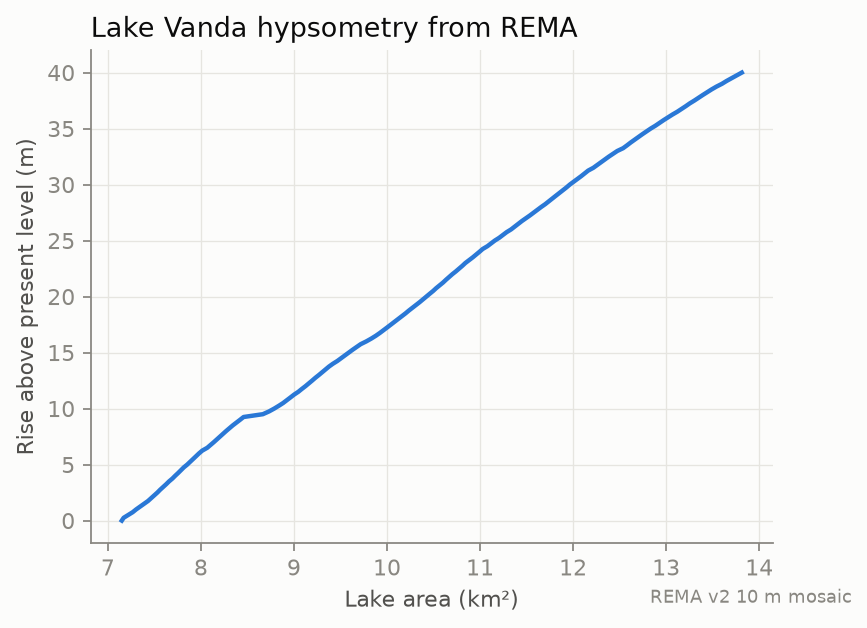
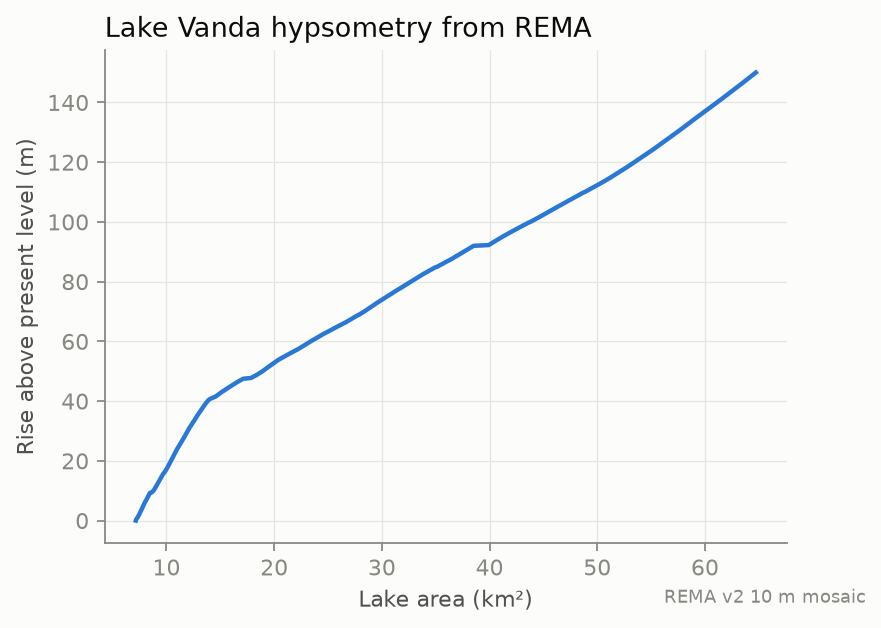
Run on real LTER and RACMO data; add control run and NetCDF reader
- Read yearly CESM2-driven RACMO2.3p2 NetCDF (Zenodo 6416973); changes
  relative to 1994-2025, 21-yr smoothing, optional summer_scaling
- Widen the DEM window to 20 km and hypsometry to +150 m (area was
  clamped beyond +40 m)
- Add a no-further-warming control scenario and an optional log-inflow GP
- Fix two-digit years in the Onyx River daily export
- README: first real-data results and caveats; data docs list exact
  package IDs and file names

diff --git a/src/vanda_rising/cli.py b/src/vanda_rising/cli.py
@@ -61,6 +61,21 @@ def load_real_inputs(cfg) -> Inputs:
         ice = lter.load_ice_thickness(p, L["lake_filter"])
     lon, lat = cfg["lake"]["lon"], cfg["lake"]["lat"]
     R = cfg["racmo"]
+    if R.get("format") == "netcdf":
+        from .racmo_nc import change_table
+        kw = dict(grid=resolve(cfg, R["grid"]), lon=lon, lat=lat, n_cells=R.get("n_cells", 4),
+                  smooth_yr=R.get("smooth_yr", 21), baseline=tuple(R.get("baseline", (1995, 2014))))
+        tch = change_table({k: resolve(cfg, v) for k, v in R["t2m"].items()}, "t2m", mode="delta", **kw)
+        # Yearly files give annual-mean warming; summer warming can be smaller (Antarctic
+        # warming is winter-amplified). summer_scaling converts one to the other.
+        tch["change"] *= float(R.get("summer_scaling", 1.0))
+        sch = None
+        if R.get("sublimation"):
+            sch = change_table({k: resolve(cfg, v) for k, v in R["sublimation"].items()}, "subl", mode="ratio", **kw)
+        offset = 0.0
+        if L.get("rema_epoch"):
+            offset = float(levels.iloc[-1] - lter.level_at(levels, L["rema_epoch"]))
+        return Inputs(read_dem(dem_path), levels, met, tch, sch, inflow, ice, offset)
     tch = racmo_change(resolve(cfg, R["t2m_hist"]), {s: {k: resolve(cfg, v) for k, v in d.items()}
                                                       for s, d in R["t2m_future"].items()}, lon, lat, "delta")
     sch = None
@@ -98,6 +113,12 @@ def analyse(inp: Inputs, cfg, out: Path, figs: Path, tag: str | None = None) -> 
     years = range(M["start_year"], M["end_year"] + 1)
     delta_ts = change_timeseries(inp.t_change, years, "delta")
     sub_ts = change_timeseries(inp.s_change, years, "ratio") if inp.s_change is not None else None
+    # Control run: today's climate held fixed. It isolates the lake's committed rise from the
+    # effect of warming, and needs no extrapolation beyond the observed summers.
+    if M.get("control_run", True):
+        delta_ts.insert(0, "no_warming", 0.0)
+        if sub_ts is not None:
+            sub_ts.insert(0, "no_warming", 1.0)
     pd.concat({"delta_t2m_c": delta_ts, **({"sublimation_ratio": sub_ts} if sub_ts is not None else {})}, axis=1).to_csv(out / "forcing_timeseries.csv")
 
     # ---- engine 1: statistical
@@ -117,19 +138,27 @@ def analyse(inp: Inputs, cfg, out: Path, figs: Path, tag: str | None = None) -> 
 
     # ---- engine 2: water balance
     if inp.inflow is not None:
-        dq = build_dataset(inp.inflow, feats)
+        # Seasonal inflow is heavy-tailed (one flood summer can carry 10x the median), so the
+        # GP learns ln(volume) by default: errors become multiplicative, as in the observations.
+        log_q = bool(M.get("log_inflow", True))
+        target = np.log(inp.inflow.clip(lower=1.0)) if log_q else inp.inflow
+        dq = build_dataset(target, feats)
         m_q, p_q = cross_validate(dq, features, "inflow_m3", M["seed"])
         m_q.to_csv(out / "cv_inflow.csv"); p_q.to_csv(out / "cv_inflow_predictions.csv")
         q_model = fit(dq, features, "inflow_m3", M["seed"])
         loss_mean, loss_sd, loss_tab = calibrate_loss(dlevel, inp.inflow, area0)
         loss_tab.to_csv(out / "water_balance_calibration.csv")
         wb_proj, eq, _ = project_waterbalance(q_model, forcings, delta_ts, sub_ts, curve, loss_mean, loss_sd,
-                                              len(loss_tab), M["n_sims"], M["seed"])
+                                              len(loss_tab), M["n_sims"], M["seed"], log_inflow=log_q)
         eq["e_folding_time_yr"] = [e_folding_time(curve, q, l) for q, l in zip(eq["mean_inflow_m3"], eq["loss_m_yr"])]
         wb_proj.to_csv(out / "projection_waterbalance.csv", index=False)
         eq.to_csv(out / "equilibrium.csv", index=False)
-        plots.plot_cv(p_q / 1e6, (m_q / 1e6).assign(coverage_90=m_q["coverage_90"]), figs / "cv_inflow.png",
-                      "10⁶ m³", "Onyx River seasonal inflow: GP cross-validation", tag)
+        if log_q:
+            plots.plot_cv(p_q, m_q, figs / "cv_inflow.png", "ln m³",
+                          "Onyx River seasonal inflow (log): GP cross-validation", tag)
+        else:
+            plots.plot_cv(p_q / 1e6, (m_q / 1e6).assign(coverage_90=m_q["coverage_90"]), figs / "cv_inflow.png",
+                          "10⁶ m³", "Onyx River seasonal inflow: GP cross-validation", tag)
         summary["water_balance"] = {"loss_m_yr": loss_mean, "loss_sd_m_yr": loss_sd, "n_seasons": len(loss_tab),
                                     "equilibrium": eq.round(3).to_dict(orient="records")}
         panels["Water-balance engine (inflow − ice ablation)"] = wb_proj

diff --git a/src/vanda_rising/racmo_nc.py b/src/vanda_rising/racmo_nc.py
@@ -1,0 +1,82 @@
+"""Yearly RACMO2.3p2 (CESM2-forced) NetCDF files -> scenario change series at the lake.
+
+Source: van Wessem et al., Zenodo doi:10.5281/zenodo.6416973 (files such as
+``t2m_yearlyA_ANT27_CESM2_RACMO2.3p2_SSP245_r567_2011_2099.nc``). The historical run and the
+SSP runs come from the same model chain, so the model's own bias cancels in the change.
+
+Method:
+
+* the series at the lake is an inverse-distance mean of the ``n_cells`` nearest 27 km cells
+  (the nearest sits about 5 km away but ~900 m higher, so only *changes* are used);
+* historical (to 2014) and SSP (from 2015) years are joined and smoothed with a centred
+  ``smooth_yr`` running mean, so the forcing carries the forced trend rather than CESM2's own
+  year-to-year noise (interannual variability comes from the observed seasons instead);
+* change is relative to the ``baseline`` years: additive for temperature, a ratio for
+  sublimation.
+
+The output matches ``scenarios.racmo_change`` (columns scenario, mid_year, change), so
+``scenarios.change_timeseries`` works on it unchanged.
+"""
+from __future__ import annotations
+
+from pathlib import Path
+
+import numpy as np
+import pandas as pd
+
+BASELINE = (1994, 2025)   # the Lake Vanda station record; hist run to 2014, then each SSP
+HIST_END = 2014
+
+
+def _nearest_cells(grid: Path, lon: float, lat: float, n: int):
+    import netCDF4
+    with netCDF4.Dataset(grid) as g:
+        glat, glon = np.asarray(g["lat"][:]), np.asarray(g["lon"][:])
+    dx = (glon - lon) * np.cos(np.radians(lat)) * 111.2
+    dy = (glat - lat) * 111.2
+    d = np.hypot(dx, dy)
+    flat = np.argsort(d, axis=None)[:n]
+    rc = [np.unravel_index(i, d.shape) for i in flat]
+    dist = np.array([d[r, c] for r, c in rc])
+    w = 1.0 / np.maximum(dist, 1.0) ** 2
+    return rc, w / w.sum(), dist
+
+
+def point_series(path: Path, var: str, cells, weights) -> pd.Series:
+    """Yearly series (index = calendar year) at the lake from one RACMO yearly file."""
+    import netCDF4
+    with netCDF4.Dataset(path) as ds:
+        x = np.asarray(ds[var][:], dtype=float)
+        t = ds["time"]
+        dates = netCDF4.num2date(t[:], t.units, getattr(t, "calendar", "standard"))
+    x = x.reshape(x.shape[0], -1, *x.shape[-2:])[:, 0]          # drop the singleton height axis
+    vals = sum(w * x[:, r, c] for (r, c), w in zip(cells, weights))
+    return pd.Series(vals, index=[d.year for d in dates], name=var).groupby(level=0).mean()
+
+
+def change_table(files: dict[str, Path], var: str, grid: Path, lon: float, lat: float,
+                 mode: str = "delta", n_cells: int = 4, smooth_yr: int = 21,
+                 baseline: tuple[int, int] = BASELINE) -> pd.DataFrame:
+    """``files`` maps 'hist' and each scenario name to a NetCDF path."""
+    cells, w, dist = _nearest_cells(grid, lon, lat, n_cells)
+    hist = point_series(files["hist"], var, cells, w)
+    hist = hist[hist.index <= HIST_END]
+    neutral = 0.0 if mode == "delta" else 1.0
+    base_mid = (baseline[0] + baseline[1]) / 2
+    rows = []
+    for scen, p in files.items():
+        if scen == "hist":
+            continue
+        fut = point_series(p, var, cells, w)
+        s = pd.concat([hist, fut[fut.index > HIST_END]]).sort_index()
+        # Baseline = the years the station record covers, so the observed summers are the
+        # zero-change climate. It can run past 2014, so it is taken per scenario.
+        base = float(s.loc[baseline[0]:baseline[1]].mean())
+        s = s.rolling(smooth_yr, center=True, min_periods=smooth_yr // 2 + 1).mean()
+        ch = s - base if mode == "delta" else s / base
+        rows.append({"scenario": scen, "mid_year": base_mid, "change": neutral, "value": base, "baseline": base})
+        rows += [{"scenario": scen, "mid_year": float(yr), "change": float(c), "value": float(s[yr]), "baseline": base}
+                 for yr, c in ch.items() if yr > base_mid]
+    out = pd.DataFrame(rows)
+    out.attrs.update(cell_distance_km=[round(float(v), 1) for v in dist], baseline=baseline, smooth_yr=smooth_yr)
+    return out

diff --git a/src/vanda_rising/waterbalance.py b/src/vanda_rising/waterbalance.py
@@ -55,7 +55,9 @@ def equilibrium_rise(curve: pd.DataFrame, q_mean_m3: float, loss_m: float) -> fl
 
 def project_waterbalance(inflow_model: LevelModel, forcings: list[SeasonForcing], delta_ts: pd.DataFrame,
                          sub_ratio_ts: pd.DataFrame | None, curve: pd.DataFrame, loss_mean: float,
-                         loss_sd: float, n_seasons_calib: int, n_sims: int = 2000, seed: int = 42):
+                         loss_sd: float, n_seasons_calib: int, n_sims: int = 2000, seed: int = 42,
+                         log_inflow: bool = False):
+    """``log_inflow``: the inflow model predicts ln(volume), so samples are exp(normal)."""
     rng = np.random.default_rng(seed)
     years = delta_ts.index.to_numpy()
     max_rise = float(curve["rise_m"].max())
@@ -71,13 +73,18 @@ def project_waterbalance(inflow_model: LevelModel, forcings: list[SeasonForcing]
         for j, yr in enumerate(years):
             mu, sd, out = predict_cached(inflow_model, forcings, cache, delta_ts.loc[yr, scen])
             pick = rng.integers(len(forcings), size=n_sims)
-            q = np.clip(rng.normal(mu[pick], sd[pick]), 0, None)
+            if log_inflow:
+                q = np.exp(rng.normal(mu[pick], sd[pick]))
+                q_mean = float(np.exp(mu + sd ** 2 / 2).mean())
+            else:
+                q = np.clip(rng.normal(mu[pick], sd[pick]), 0, None)
+                q_mean = float(mu.mean())
             ratio = 1.0 if sub_ratio_ts is None else float(sub_ratio_ts.loc[yr, scen])
             loss = np.clip(l_sim * ratio + rng.normal(0, loss_sd, n_sims), 0, None)
             a = area_m2(curve, np.clip(rise, 0, max_rise))
             rise = rise + (q - loss * a) / a
             cum[:, j] = rise
-            q_year_mean[j] = mu.mean()
+            q_year_mean[j] = q_mean
             extrap[j] = out[pick].mean()
         rows += _quantile_rows(scen, years, cum, {"delta_t": delta_ts[scen].to_numpy(),
                                                   "mean_inflow_m3": q_year_mean,

diff --git a/src/vanda_rising/lter.py b/src/vanda_rising/lter.py
@@ -34,6 +34,18 @@ def find_col(df: pd.DataFrame, *keys: str, exclude: tuple[str, ...] = (), requir
     return None
 
 
+def parse_dates(values) -> pd.DatetimeIndex:
+    """Parse dates, fixing two-digit years that land in the future (e.g. '12/5/69' -> 2069).
+
+    The Onyx River daily export writes dates as m/d/yy and starts in 1969.
+    """
+    idx = pd.DatetimeIndex(pd.to_datetime(values, errors="coerce"))
+    future = idx > pd.Timestamp.now() + pd.Timedelta(days=366)
+    if future.any():
+        idx = idx.where(~future, idx - pd.DateOffset(years=100))
+    return pd.DatetimeIndex(idx)
+
+
 def season_of(index) -> np.ndarray:
     idx = pd.DatetimeIndex(index)
     return np.where(idx.month >= 7, idx.year, idx.year - 1)
@@ -81,10 +93,10 @@ _Q_TO_M3S = {"l/s": 1e-3, "m3/s": 1.0, "cfs": 0.0283168}
 def load_discharge(path, date: str | None = None, q: str | None = None, units: str = "l/s") -> pd.Series:
     """Discharge series in m^3/s. MCM LTER stream gauges report L/s; set ``units`` otherwise."""
     df = pd.read_csv(path, low_memory=False)
-    q = q or find_col(df, "discharge_rate", "discharge", "dsch", "flow")
+    q = q or find_col(df, "discharge_rate", "avg_discharge", "discharge", "dsch", "flow")
     date = date or find_col(df, "date_time", "datetime", "timestamp", "date", "time", exclude=(q,))
     s = pd.Series(pd.to_numeric(df[q], errors="coerce").to_numpy() * _Q_TO_M3S[units.lower()],
-                  index=pd.to_datetime(df[date], errors="coerce"), name="q_m3s")
+                  index=parse_dates(df[date]), name="q_m3s")
     s = s[s.index.notna()].sort_index()
     return s[~s.index.duplicated()].clip(lower=0)
 

diff --git a/src/vanda_rising/plots.py b/src/vanda_rising/plots.py
@@ -12,7 +12,7 @@ import pandas as pd  # noqa: E402
 
 # Categorical slots in fixed order (validated reference palette); ink tokens for text.
 SCENARIO_COLORS = {"ssp126": "#2a78d6", "ssp245": "#eb6834", "ssp585": "#1baf7a"}
-SCENARIO_LABELS = {"ssp126": "SSP1-2.6", "ssp245": "SSP2-4.5", "ssp585": "SSP5-8.5"}
+SCENARIO_LABELS = {"no_warming": "No further warming", "ssp126": "SSP1-2.6", "ssp245": "SSP2-4.5", "ssp585": "SSP5-8.5"}
 INK, INK2, MUTED, SURFACE, GRID = "#0b0b0b", "#52514e", "#898781", "#fcfcfb", "#e6e5e0"
 
 plt.rcParams.update({

diff --git a/README.md b/README.md
@@ -48,11 +48,70 @@ flowchart LR
 
 | Piece | State |
 |---|---|
-| REMA fetch, lake detection, hypsometry | **Working on real data** (figures below) |
-| Water-balance, lake-ice and statistical engines | Working; tested on synthetic data with known parameters |
-| LTER lake levels, Onyx discharge, met, ice thickness | **You download these** (EDI has a login and bot check, so scripted downloads aren't possible) |
-| RACMO layers | **You download these** from the Quantarctica package |
+| REMA fetch, lake detection, hypsometry to +150 m | **Working on real data** |
+| Water balance, lake ice, statistical engines | **Run on real data**: LTER packages knb-lter-mcm.68.15, 7015.22, 9122.7 and 67.19 |
+| Climate forcing | **Real**: RACMO2.3p2 driven by CESM2, historical and SSP1-2.6, 2-4.5, 5-8.5 (yearly) |
+| Flood intersection with ASMA and historic sites | Waiting on the Quantarctica vector layers |
 | Allan Hills DTS check | Reader written; data download sits behind a reCAPTCHA |
+
+## Results (real data, first pass)
+
+![Projections](figures/projections.png)
+
+**1. The water balance closes.** Across seasons, Onyx River inflow and Lake Vanda's level
+change correlate at r = 0.99. Calibrating against 36 seasons gives a net loss through the ice
+cover of **0.215 ± 0.176 m/yr**. The independent lake-ice model implies 0.32 m/yr of water
+lost through ablation, so the two estimates agree to within a factor of 1.5 (closure ratio
+0.67).
+
+**2. Lake Vanda is committed to rising even without further warming.** At today's climate,
+mean inflow (3.5 × 10⁶ m³/yr) only balances ice-cover loss once the lake covers about
+16 km². That happens **≈ 45 m above today's level**, with an e-folding time of
+**≈ 160 years**. This independently reproduces Castendyk et al.'s (2016) conclusion that Vanda
+will keep rising for about two centuries. The no-warming control rises 0.33 m in its first
+year (observed: 0.34 m/yr since 1994), **+7 m (2–12 m) by 2050 and +17 m (10–24 m) by 2100**.
+
+**3. Warming makes it much faster, but those numbers are less certain.** In the observations,
+seasonal inflow grows about 2.4× per +1 °C of December–January air temperature (28 seasons).
+That steep response comes from the 2001–02 flood summer and the 2008–2010 high-flow years.
+Applying RACMO's warming:
+
+| Water-balance rise (median, 5–95 %) | 2050 | 2100 |
+|---|---|---|
+| No further warming | +7 m (2–12) | +17 m (10–24) |
+| SSP1-2.6 | +27 m (21–34) | +72 m (67–76) |
+| SSP2-4.5 | +28 m (21–34) | +80 m (75–85) |
+| SSP5-8.5 | +36 m (29–42) | +109 m (103–115) |
+
+Read these with three caveats:
+- **Annual vs summer warming.** The yearly RACMO files give annual-mean warming, which is
+  winter-amplified in Antarctica. With `racmo.summer_scaling: 0.5` (summer warms half as
+  much), 2050 rises drop to about +15 to +20 m. Seasonal (monthly) future RACMO fields
+  would settle this.
+- **Extrapolation.** After about 2060, most simulated summers are warmer than any observed one
+  (`frac_outside_training` reaches 0.7–1.0). By then the result reflects the model's
+  assumptions more than the data. A log-inflow model (`model.log_inflow: true`) blows up
+  exponentially there, which shows how poorly that range is constrained.
+- **Unlimited glacier supply.** Inflow is assumed to scale with degree-days indefinitely.
+  Glacier retreat, changing albedo and radiation-driven melt are not modelled.
+
+The left panel (statistical engine) learns level change directly and ignores the lake
+spreading as it rises. That is fine for a few metres, but its 2100 values are not physical.
+It is kept as the baseline that shows why the water balance matters.
+
+**4. The ice cover thins.** The ice model fits the 12 Vanda thickness surveys (3.2–3.3 m,
+RMSE 0.15 m) with a basal heat flux of 9.9 W/m². Its response time is short (about 2 years),
+so the ice tracks climate closely. Projected thickness by 2100: 3.2 m with no warming;
+2.7 m (SSP1-2.6), 2.5 m (SSP2-4.5) and 2.0 m (SSP5-8.5).
+
+![Ice](figures/ice_thickness.png)
+![Flood extents 2100](figures/inundation.png)
+
+**Forecast skill, honestly.** In leave-one-season-out cross-validation, degree-days barely
+beat climatology for year-to-year inflow (median absolute error 2.4 vs 2.9 × 10⁶ m³; RMSE is
+dominated by flood summers). The long-run trajectory is set by the mean response, which is
+better constrained than single seasons. Better predictors are the obvious next step: solar
+radiation and wind are in the station file.
 
 ### Real data: Lake Vanda hypsometry from REMA v2 (10 m)
 
@@ -61,8 +120,9 @@ flowchart LR
 
 The ice surface sits at 41.4 m above the WGS84 ellipsoid. REMA heights are ellipsoidal;
 only height differences are used, so no geoid correction is needed. The lake plus the
-connected low ground covers about 7.2 km² today. The curve flattens up-valley to the west,
-so each metre of rise adds about 0.15–0.2 km².
+connected low ground covers about 7.2 km² today. Up to about +40 m, each metre of rise adds
+about 0.15–0.2 km². Above that, the water spreads along the Wright Valley floor much faster:
+19 km² at +50 m and 44 km² at +100 m.
 
 ### Pipeline demo (synthetic data, **not results**)
 
@@ -102,9 +162,11 @@ pytest
 
 ## Method notes and honest limitations
 
-- **Delta change.** RACMO's 27 km grid cannot resolve the valley (and its föhn events), so
-  only RACMO *changes* are used. Annual-mean warming is applied evenly to every summer hour.
-  That's a first-order assumption, because summer warming can differ from the annual mean.
+- **Delta change.** RACMO's 27 km grid cannot resolve the valley (and its föhn events). The
+  nearest cells sit at 900–1600 m, against 96 m for the lake, so only RACMO *changes* are used.
+  They are taken relative to 1994–2025, the years the station record covers, and smoothed with
+  a 21-year running mean. Annual-mean warming is applied evenly to every summer hour, scaled by
+  `racmo.summer_scaling`.
 - **Extrapolation.** Warm-scenario summers can lie outside the observed degree-day range.
   The GP has a linear kernel term so it doesn't revert to the mean outside the data, and
   every projection reports `frac_outside_training`. Read high-end SSP5-8.5 numbers with that

diff --git a/docs/data_sources.md b/docs/data_sources.md
@@ -17,9 +17,9 @@ keyword; if a guess is wrong, set the names under `lter.columns` in `config.yaml
 | File (`config.yaml` key) | EDI package | Notes |
 |---|---|---|
 | `lake_levels_csv` | **knb-lter-mcm.68**, "Lake level surveys in the McMurdo Dry Valleys, 1991 to present" | Surveyed with rod and level, usually in Oct–Nov and Jan–Feb. The reader keeps Vanda rows (`lake_filter`). |
-| `met_csv` | Lake Vanda meteorological station (search EDI for "Lake Vanda meteorological") | Air temperature, plus wind if present. Sub-daily data preferred. |
-| `discharge_csv` | Onyx River at Lake Vanda weir (search EDI for "Onyx River Lake Vanda discharge") | The gauge record begins in 1969. Units default to L/s (`discharge_units`). |
-| `ice_thickness_csv` | MCM LTER lake ice thickness (search EDI for "lake ice thickness") | Optional; enables the lake-ice model. |
+| `met_csv` | **knb-lter-mcm.7015**, Lake Vanda met station (VAAM), 15-minute data | Air temperature, plus wind if present. Use this rather than the monthly summaries (knb-lter-mcm.7215), because degree-days need sub-daily data. |
+| `discharge_csv` | **knb-lter-mcm.9122**, Onyx River at Lake Vanda weir, daily summaries (or knb-lter-mcm.9022 for 15-minute data) | The gauge record begins in 1969. Units default to L/s (`discharge_units`). |
+| `ice_thickness_csv` | **knb-lter-mcm.67**, lake ice thickness and density | Optional; enables the lake-ice model. Check that it includes Vanda rows: older versions cover Taylor Valley only. |
 
 Cite each package with the DOI shown on its EDI landing page and follow the
 [MCM LTER data use policy](https://mcm.lternet.edu/).
@@ -28,17 +28,37 @@ Older lake levels (before 1991) appear in the literature, for example Castendyk 
 and Hawes et al. 2013 (Fig. 1). If you digitise them, append them to the levels CSV and note
 it in your README.
 
+LTER files on Windows: the full paths of the original names exceed the 260-character limit,
+so `config.yaml` uses short names: `levels.csv`, `met_hr.csv` (`clim_vaam_hourly.csv`),
+`onyx_d.csv` and `ice.csv`.
+
+## Manual: RACMO2.3p2 climate projections (Zenodo)
+
+From [Zenodo 6416973](https://zenodo.org/records/6416973) (van Wessem et al.,
+doi:10.1038/s41558-022-01577-1), download these nine files and save them in
+`data/raw/racmo/` under the short names shown:
+
+| Zenodo file | Save as |
+|---|---|
+| `t2m_yearlyA_ANT27_CESM2_RACMO2.3p2_hist_r567_1950_2014.nc` | `t2m_hist.nc` |
+| `t2m_yearlyA_ANT27_CESM2_RACMO2.3p2_SSP126_r567_2011_2099.nc` | `t2m_SSP126.nc` |
+| `t2m_yearlyA_ANT27_CESM2_RACMO2.3p2_SSP245_r567_2011_2099.nc` | `t2m_SSP245.nc` |
+| `t2m_yearlyA_ANT27_CESM2_RACMO2.3p2_SSP585_r567_2015_2099.nc` | `t2m_SSP585.nc` |
+| `subl_yearlyS_ANT27_CESM2_RACMO2.3p2_hist_r567_1950_2014.nc` | `subl_hist.nc` |
+| `subl_yearlyS_ANT27_CESM2_RACMO2.3p2_SSP126_r567_2011_2099.nc` | `subl_SSP126.nc` |
+| `subl_yearlyS_ANT27_CESM2_RACMO2.3p2_SSP245_r567_2011_2099.nc` | `subl_SSP245.nc` |
+| `subl_yearlyS_ANT27_CESM2_RACMO2.3p2_SSP585_r567_2015_2099.nc` | `subl_SSP585.nc` |
+| `Height_latlon_ANT27.nc` | `grid.nc` |
+
+The historical and SSP runs share one model chain (CESM2 → RACMO2.3p2), so the model's bias
+cancels in the change. The ERA5-driven monthly record (Zenodo 7845736) is not needed.
+
 ## Manual: Quantarctica (Norwegian Polar Institute)
 
-Download the Quantarctica package or individual layers from the
-[data catalog](https://sites.npolar.no/quantarctica/data-catalog/) and export the rasters as
-GeoTIFF into `data/raw/quantarctica/`.
+Optional layers from the [data catalog](https://sites.npolar.no/quantarctica/data-catalog/):
 
 | Layer | Used for | Reference |
 |---|---|---|
-| 2 m temperature 1979–2022, van Wessem RACMO2.3p2-ERA5 | baseline for temperature deltas | doi:10.5281/zenodo.7845736; van Wessem et al. 2018, doi:10.5194/tc-12-1479-2018 |
-| 2 m temperature 2025–2050 / 2051–2075 / 2076–2099 (SSP1-2.6, SSP2-4.5, SSP5-8.5), van Wessem RACMO2.3p2 | future temperature deltas | doi:10.5281/zenodo.6416973; doi:10.1038/s41558-022-01577-1 |
-| Sublimation 1979–2022 and future periods, van Wessem RACMO2.3p2 | ablation ratio | as above |
 | 10 m firn temperature, Veldhuijsen IMAU-FDM | DTS check | doi:10.5194/tc-17-1675-2023 |
 | ASMA, ASPA polygons, Historic Sites and Monuments (ATS); building and ground disturbance footprints (Brooks) | flood intersection | see each catalogue entry |
 | Ice surface flow speed (ITS_LIVE), ICESat-2 ATL15 elevation change | future work: Wright Lower Glacier | see catalogue |
